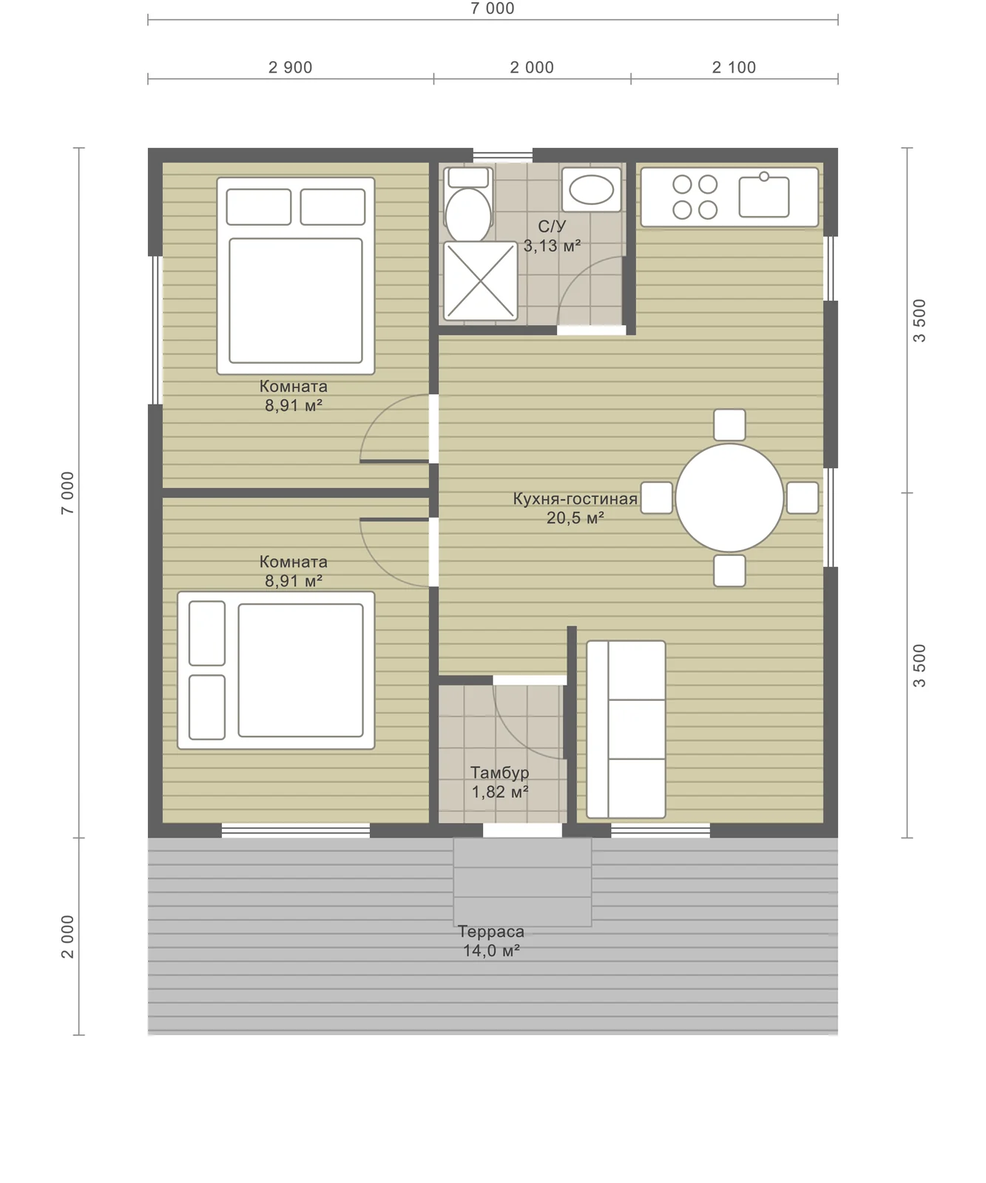
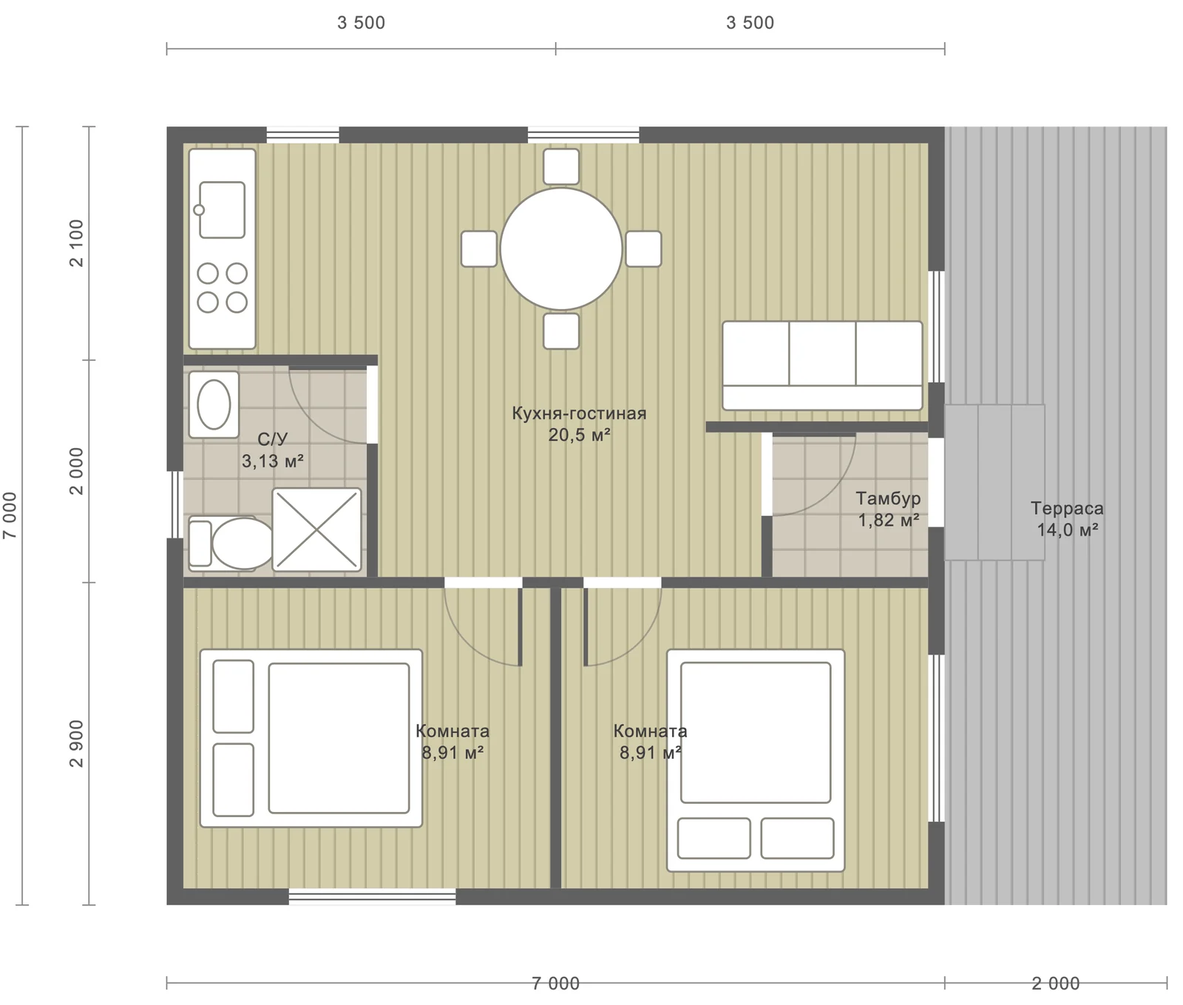
Стамбул 9 × 7: первый чертёж развёрнут — терраса справа, как у второй планировки

diff --git a/v2/proekt-9h7.html b/v2/proekt-9h7.html
@@ -160,7 +160,7 @@
     </section>
     <section class="sec" id="plan">
       <h2 class="sech">Две планировки на выбор</h2>
-      <div class="pln pln--desc" data-pln style="--ar:0.833"><div class="pln__c" data-n="1"><div class="pln__hd"><h3 class="pln__h">Планировка 1</h3><p class="pln__nm">2 комнаты · 43,3 м² в тепле</p></div><button type="button" class="pln__db" data-pld="1" aria-haspopup="dialog" aria-controls="pld"><svg viewBox="0 0 24 24" fill="none" stroke="currentColor" stroke-width="1.9" stroke-linecap="round" stroke-linejoin="round" aria-hidden="true"><path d="M7 3h7l5 5v13H7z"/><path d="M14 3v5h5M10 13h6M10 17h6"/></svg><span>Описание плана</span></button><div class="pln__w"><div class="pln__in"><button type="button" class="pln__m" aria-label="Открыть «Планировка 1 · 2 комнаты» на весь экран"><img class="is-on" src="../img/stambul-9h7-plan-1.webp" width="1333" height="1600" alt="Планировка 1 · 2 комнаты · Чертёж" decoding="async" loading="lazy"><span class="pln__zoom" aria-hidden="true"><svg viewBox="0 0 24 24" fill="none" stroke="currentColor" stroke-width="2" stroke-linecap="round" stroke-linejoin="round"><path d="M15 3h6v6M9 21H3v-6M21 3l-7 7M3 21l7-7"/></svg></span></button></div></div></div><div class="pln__c" data-n="2"><div class="pln__hd"><h3 class="pln__h">Планировка 2</h3><p class="pln__nm">1 спальня · 39,9 м² в тепле</p></div><button type="button" class="pln__db" data-pld="2" aria-haspopup="dialog" aria-controls="pld"><svg viewBox="0 0 24 24" fill="none" stroke="currentColor" stroke-width="1.9" stroke-linecap="round" stroke-linejoin="round" aria-hidden="true"><path d="M7 3h7l5 5v13H7z"/><path d="M14 3v5h5M10 13h6M10 17h6"/></svg><span>Описание плана</span></button><div class="pln__w"><div class="pln__in"><button type="button" class="pln__m" aria-label="Открыть «Планировка 2 · 1 спальня» на весь экран"><img class="is-on" src="../img/stambul-9h7-plan-2.webp" width="1600" height="1333" alt="Планировка 2 · 1 спальня · Чертёж" decoding="async" loading="lazy"><img src="../img/stambul-9h7-plan-2-3d.webp" width="2000" height="1342" alt="Планировка 2 · 1 спальня · 3D-вид" decoding="async" loading="lazy"><span class="pln__zoom" aria-hidden="true"><svg viewBox="0 0 24 24" fill="none" stroke="currentColor" stroke-width="2" stroke-linecap="round" stroke-linejoin="round"><path d="M15 3h6v6M9 21H3v-6M21 3l-7 7M3 21l7-7"/></svg></span></button><div class="pln__s"><button type="button" class="pln__t is-on" aria-pressed="true"><img src="../img/stambul-9h7-plan-2-th.webp" alt=""><span>Чертёж</span></button><button type="button" class="pln__t" aria-pressed="false"><img src="../img/stambul-9h7-plan-2-3d-th.webp" alt=""><span>3D-вид</span></button></div></div></div></div></div><dialog class="pld" id="pld" aria-label="Описание плана"><div class="pld__bar"><div class="pld__seg" role="group" aria-label="Планировка"><button type="button" data-n="1" aria-pressed="false">Планировка 1</button><button type="button" data-n="2" aria-pressed="false">Планировка 2</button></div><button type="button" class="pld__x" data-close><svg viewBox="0 0 24 24" fill="none" stroke="currentColor" stroke-width="1.9" stroke-linecap="round" stroke-linejoin="round" aria-hidden="true"><path d="M6 6l12 12M18 6 6 18"/></svg>Закрыть</button></div><div class="pld__b"><div class="pld__p" data-pane="1" hidden><figure class="pld__fig" data-n="1"><button type="button" class="pld__m" aria-label="Открыть «Планировка 1 · 2 комнаты» на весь экран"><img class="is-on" src="../img/stambul-9h7-plan-1.webp" width="1333" height="1600" alt="Планировка 1 · 2 комнаты · Чертёж" decoding="async" loading="lazy"></button></figure><div class="pld__txt"><p class="pld__k">Вариант 1 · 43,3 м² в тепле</p><h3 class="pld__t">Компактный дом 7 × 9 с террасой: две комнаты и светлая кухня-гостиная</h3><p class="pld__s">Всё, что нужно для жизни, — в квадрате 7 × 7 метров. Две отдельные комнаты, кухня-гостиная с тремя окнами, тамбур у входа и терраса 14 м² во всю ширину дома. Экономный в стройке и отоплении дом, который одинаково хорош для постоянной жизни, дачи или гостевого дома.</p><p class="pld__h">Кому подходит</p><ul class="pln__who pld__who"><li>Вас двое, или вы пара с ребёнком</li><li>Нужна дача или гостевой дом, где всё под рукой</li><li>Хотите сдавать дом: две комнаты и общая кухня — удобный формат для аренды</li><li>Важно, чтобы стройка и отопление стоили разумно</li><li>Любите завтракать и ужинать на террасе</li></ul><p class="pln__not"><b>Не ваш,</b> если нужен простор.</p><p class="pld__h">Почему сделано именно так</p><ul class="pld__l"><li><b>Квадрат 7 × 7 — самая экономная форма</b>Минимум наружных стен на каждый метр площади, простой фундамент и крыша. Дом быстрее строится и дешевле отапливается.</li><li><b>Коридоров почти нет — 4,2 %</b>Норма — до 12 %. Практически каждый метр, за который вы платите, — это комната.</li><li><b>Две отдельные комнаты одинакового размера</b>Каждому своя, никто не обижен. Легко сделать спальню, детскую, кабинет или гостевую — и поменять назначение позже.</li><li><b>Светлая кухня-гостиная 20,5 м²</b>Три окна на две стороны: кухня, обеденный стол на четверых и диван в одном пространстве.</li><li><b>Тамбур у входа</b>Холод и уличная грязь остаются у двери. Редкость для дома такого размера.</li><li><b>Терраса 14 м² во всю ширину дома</b>Вход прямо с террасы, летом она становится второй гостиной — стол, кресла, мангал рядом.</li><li><b>Санузел рядом с кухней</b>Общий стояк и короткие трубы: дешевле монтаж, меньше риск протечек.</li><li><b>Окна комнат на разные стороны дома</b>Комнаты не смотрят друг другу в окна — у каждой свой вид и своя приватность.</li><li><b>Простой дом для любой задачи</b>Постоянное жильё для пары, дача, гостевой дом на участке или дом под аренду — планировка подходит без переделок.</li></ul><p class="pld__h">Честно о минусах</p><ul class="pld__l pld__l--minus"><li><b>Санузел 3,1 м², один на дом</b>Встаёт душевая, унитаз и раковина; ванна и стиральная машина — нет. Лечится: стиральная машина под столешницу на кухне, у общего стояка.</li><li><b>Комнаты по 8,9 м²</b>Выше минимума 8. Двуспальная кровать и шкаф встают, рабочий стол — впритык.</li><li><b>Двери комнат выходят прямо в кухню-гостиную</b>Лечится: плотные двери с уплотнителем.</li><li><b>Окно второй комнаты выходит на террасу</b>Когда там гости — их слышно, и в окно видно. Лечится шторой или матовым низом стекла.</li><li><b>Нет места под котёл и кладовой</b>Лечится: электрокотёл или настенный котёл с закрытой камерой на кухне; хранение — шкаф в тамбуре и шкафы в комнатах.</li></ul></div></div><div class="pld__p" data-pane="2" hidden><figure class="pld__fig" data-n="2"><button type="button" class="pld__m" aria-label="Открыть «Планировка 2 · 1 спальня» на весь экран"><img class="is-on" src="../img/stambul-9h7-plan-2.webp" width="1600" height="1333" alt="Планировка 2 · 1 спальня · Чертёж" decoding="async" loading="lazy"><img src="../img/stambul-9h7-plan-2-3d.webp" width="2000" height="1342" alt="Планировка 2 · 1 спальня · 3D-вид" decoding="async" loading="lazy"></button><div class="pld__v" role="group" aria-label="Вид плана"><button type="button" aria-pressed="true">Чертёж</button><button type="button" aria-pressed="false">3D-вид</button></div></figure><div class="pld__txt"><p class="pld__k">Вариант 2 · 39,9 м² в тепле</p><h3 class="pld__t">Дом 9 × 7 с отдельной кухней и светлой гостиной у террасы</h3><p class="pld__s">Уютный одноэтажный дом, где у каждой зоны своё место: отдельная кухня, гостиная с большим окном на террасу, тихая спальня, просторная прихожая со шкафами и санузел почти 5 м². Терраса 17,5 м² тянется вдоль всего дома — вход прямо с неё.</p><p class="pld__h">Кому подходит</p><ul class="pln__who pld__who"><li>Вас двое, или вы живёте один</li><li>Любите готовить, но не хотите, чтобы запахи шли в гостиную</li><li>Нужен дом для жизни круглый год или тёплая дача</li><li>Родители на пенсии: всё на одном уровне, без лестниц и лишних метров</li><li>Много времени проводите на террасе</li></ul><p class="pln__not"><b>Не ваш,</b> если в семье есть дети.</p><p class="pld__h">Почему сделано именно так</p><ul class="pld__l"><li><b>Отдельная кухня 9,9 м²</b>Редкость для небольшого дома. Запахи и шум готовки не уходят в гостиную, а кухне хватает места и на гарнитур с холодильником, и на обеденный стол на четверых.</li><li><b>Светлая гостиная 10,2 м² у террасы</b>Большое окно почти от пола на террасу и ещё одно окно — это самая солнечная комната дома.</li><li><b>Кухня и гостиная связаны широким проёмом</b>Метровый проём без двери: из кухни видно гостиную, еду удобно подавать, но комнаты остаются раздельными.</li><li><b>Тихая спальня 9,9 м²</b>Вход из прихожей, а не из гостиной. Двуспальная кровать, шкаф и окно — спальня отделена от общей зоны.</li><li><b>Прихожая 5,2 м² со шкафами</b>Не тесный пятачок, а полноценная комната: два шкафа для одежды, обуви и сезонных вещей, место разуться и раздеться вдвоём.</li><li><b>Санузел 4,7 м²</b>Больше нормы 4,2 м²: душевая, унитаз, раковина, стиральная машина и отдельная ниша под бойлер. Есть окно.</li><li><b>Терраса 17,5 м² вдоль всего дома</b>Вход прямо с террасы. Летом здесь стол на шестерых, кресла и зона отдыха — ещё одна комната под открытым небом.</li><li><b>Личная зона отдельно от гостей</b>Спальня и санузел открываются в прихожую — личная зона дома не пересекается с гостями.</li><li><b>Компактный и экономный</b>Прямоугольник 6,5 × 7 м без выступов: простой фундамент и крыша, недорогое отопление, быстрая стройка.</li></ul><p class="pld__h">Честно о минусах</p><ul class="pld__l pld__l--minus"><li><b>Спальня одна</b>Для пары или одного человека в самый раз, для семьи с детьми — мало.</li><li><b>На кухню — через гостиную</b>У кухни нет входа из прихожей; продукты несут через гостиную.</li><li><b>Входная дверь сразу в прихожую, без тамбура</b>Лечится: утеплённая входная дверь с хорошим порогом.</li><li><b>Много стекла в гостиной</b>Зимой у большого окна прохладнее, летом солнечно. Лечится: энергосберегающий стеклопакет и шторы.</li><li><b>Нет отдельного помещения под котёл</b>Лечится: настенный котёл с закрытой камерой на кухне или электрокотёл в нише санузла.</li></ul></div></div></div></dialog><p class="plan__t">Пришлём планировку этого дома — с размерами комнат и террасы.</p><button type="button" class="btn btn--l" data-callback>Получить планировку</button></div>
+      <div class="pln pln--desc" data-pln style="--ar:1.177"><div class="pln__c" data-n="1"><div class="pln__hd"><h3 class="pln__h">Планировка 1</h3><p class="pln__nm">2 комнаты · 43,3 м² в тепле</p></div><button type="button" class="pln__db" data-pld="1" aria-haspopup="dialog" aria-controls="pld"><svg viewBox="0 0 24 24" fill="none" stroke="currentColor" stroke-width="1.9" stroke-linecap="round" stroke-linejoin="round" aria-hidden="true"><path d="M7 3h7l5 5v13H7z"/><path d="M14 3v5h5M10 13h6M10 17h6"/></svg><span>Описание плана</span></button><div class="pln__w"><div class="pln__in"><button type="button" class="pln__m" aria-label="Открыть «Планировка 1 · 2 комнаты» на весь экран"><img class="is-on" src="../img/stambul-9h7-plan-1.webp?v=2" width="1600" height="1359" alt="Планировка 1 · 2 комнаты · Чертёж" decoding="async" loading="lazy"><span class="pln__zoom" aria-hidden="true"><svg viewBox="0 0 24 24" fill="none" stroke="currentColor" stroke-width="2" stroke-linecap="round" stroke-linejoin="round"><path d="M15 3h6v6M9 21H3v-6M21 3l-7 7M3 21l7-7"/></svg></span></button></div></div></div><div class="pln__c" data-n="2"><div class="pln__hd"><h3 class="pln__h">Планировка 2</h3><p class="pln__nm">1 спальня · 39,9 м² в тепле</p></div><button type="button" class="pln__db" data-pld="2" aria-haspopup="dialog" aria-controls="pld"><svg viewBox="0 0 24 24" fill="none" stroke="currentColor" stroke-width="1.9" stroke-linecap="round" stroke-linejoin="round" aria-hidden="true"><path d="M7 3h7l5 5v13H7z"/><path d="M14 3v5h5M10 13h6M10 17h6"/></svg><span>Описание плана</span></button><div class="pln__w"><div class="pln__in"><button type="button" class="pln__m" aria-label="Открыть «Планировка 2 · 1 спальня» на весь экран"><img class="is-on" src="../img/stambul-9h7-plan-2.webp" width="1600" height="1333" alt="Планировка 2 · 1 спальня · Чертёж" decoding="async" loading="lazy"><img src="../img/stambul-9h7-plan-2-3d.webp" width="2000" height="1342" alt="Планировка 2 · 1 спальня · 3D-вид" decoding="async" loading="lazy"><span class="pln__zoom" aria-hidden="true"><svg viewBox="0 0 24 24" fill="none" stroke="currentColor" stroke-width="2" stroke-linecap="round" stroke-linejoin="round"><path d="M15 3h6v6M9 21H3v-6M21 3l-7 7M3 21l7-7"/></svg></span></button><div class="pln__s"><button type="button" class="pln__t is-on" aria-pressed="true"><img src="../img/stambul-9h7-plan-2-th.webp" alt=""><span>Чертёж</span></button><button type="button" class="pln__t" aria-pressed="false"><img src="../img/stambul-9h7-plan-2-3d-th.webp" alt=""><span>3D-вид</span></button></div></div></div></div></div><dialog class="pld" id="pld" aria-label="Описание плана"><div class="pld__bar"><div class="pld__seg" role="group" aria-label="Планировка"><button type="button" data-n="1" aria-pressed="false">Планировка 1</button><button type="button" data-n="2" aria-pressed="false">Планировка 2</button></div><button type="button" class="pld__x" data-close><svg viewBox="0 0 24 24" fill="none" stroke="currentColor" stroke-width="1.9" stroke-linecap="round" stroke-linejoin="round" aria-hidden="true"><path d="M6 6l12 12M18 6 6 18"/></svg>Закрыть</button></div><div class="pld__b"><div class="pld__p" data-pane="1" hidden><figure class="pld__fig" data-n="1"><button type="button" class="pld__m" aria-label="Открыть «Планировка 1 · 2 комнаты» на весь экран"><img class="is-on" src="../img/stambul-9h7-plan-1.webp?v=2" width="1600" height="1359" alt="Планировка 1 · 2 комнаты · Чертёж" decoding="async" loading="lazy"></button></figure><div class="pld__txt"><p class="pld__k">Вариант 1 · 43,3 м² в тепле</p><h3 class="pld__t">Компактный дом 7 × 9 с террасой: две комнаты и светлая кухня-гостиная</h3><p class="pld__s">Всё, что нужно для жизни, — в квадрате 7 × 7 метров. Две отдельные комнаты, кухня-гостиная с тремя окнами, тамбур у входа и терраса 14 м² во всю ширину дома. Экономный в стройке и отоплении дом, который одинаково хорош для постоянной жизни, дачи или гостевого дома.</p><p class="pld__h">Кому подходит</p><ul class="pln__who pld__who"><li>Вас двое, или вы пара с ребёнком</li><li>Нужна дача или гостевой дом, где всё под рукой</li><li>Хотите сдавать дом: две комнаты и общая кухня — удобный формат для аренды</li><li>Важно, чтобы стройка и отопление стоили разумно</li><li>Любите завтракать и ужинать на террасе</li></ul><p class="pln__not"><b>Не ваш,</b> если нужен простор.</p><p class="pld__h">Почему сделано именно так</p><ul class="pld__l"><li><b>Квадрат 7 × 7 — самая экономная форма</b>Минимум наружных стен на каждый метр площади, простой фундамент и крыша. Дом быстрее строится и дешевле отапливается.</li><li><b>Коридоров почти нет — 4,2 %</b>Норма — до 12 %. Практически каждый метр, за который вы платите, — это комната.</li><li><b>Две отдельные комнаты одинакового размера</b>Каждому своя, никто не обижен. Легко сделать спальню, детскую, кабинет или гостевую — и поменять назначение позже.</li><li><b>Светлая кухня-гостиная 20,5 м²</b>Три окна на две стороны: кухня, обеденный стол на четверых и диван в одном пространстве.</li><li><b>Тамбур у входа</b>Холод и уличная грязь остаются у двери. Редкость для дома такого размера.</li><li><b>Терраса 14 м² во всю ширину дома</b>Вход прямо с террасы, летом она становится второй гостиной — стол, кресла, мангал рядом.</li><li><b>Санузел рядом с кухней</b>Общий стояк и короткие трубы: дешевле монтаж, меньше риск протечек.</li><li><b>Окна комнат на разные стороны дома</b>Комнаты не смотрят друг другу в окна — у каждой свой вид и своя приватность.</li><li><b>Простой дом для любой задачи</b>Постоянное жильё для пары, дача, гостевой дом на участке или дом под аренду — планировка подходит без переделок.</li></ul><p class="pld__h">Честно о минусах</p><ul class="pld__l pld__l--minus"><li><b>Санузел 3,1 м², один на дом</b>Встаёт душевая, унитаз и раковина; ванна и стиральная машина — нет. Лечится: стиральная машина под столешницу на кухне, у общего стояка.</li><li><b>Комнаты по 8,9 м²</b>Выше минимума 8. Двуспальная кровать и шкаф встают, рабочий стол — впритык.</li><li><b>Двери комнат выходят прямо в кухню-гостиную</b>Лечится: плотные двери с уплотнителем.</li><li><b>Окно второй комнаты выходит на террасу</b>Когда там гости — их слышно, и в окно видно. Лечится шторой или матовым низом стекла.</li><li><b>Нет места под котёл и кладовой</b>Лечится: электрокотёл или настенный котёл с закрытой камерой на кухне; хранение — шкаф в тамбуре и шкафы в комнатах.</li></ul></div></div><div class="pld__p" data-pane="2" hidden><figure class="pld__fig" data-n="2"><button type="button" class="pld__m" aria-label="Открыть «Планировка 2 · 1 спальня» на весь экран"><img class="is-on" src="../img/stambul-9h7-plan-2.webp" width="1600" height="1333" alt="Планировка 2 · 1 спальня · Чертёж" decoding="async" loading="lazy"><img src="../img/stambul-9h7-plan-2-3d.webp" width="2000" height="1342" alt="Планировка 2 · 1 спальня · 3D-вид" decoding="async" loading="lazy"></button><div class="pld__v" role="group" aria-label="Вид плана"><button type="button" aria-pressed="true">Чертёж</button><button type="button" aria-pressed="false">3D-вид</button></div></figure><div class="pld__txt"><p class="pld__k">Вариант 2 · 39,9 м² в тепле</p><h3 class="pld__t">Дом 9 × 7 с отдельной кухней и светлой гостиной у террасы</h3><p class="pld__s">Уютный одноэтажный дом, где у каждой зоны своё место: отдельная кухня, гостиная с большим окном на террасу, тихая спальня, просторная прихожая со шкафами и санузел почти 5 м². Терраса 17,5 м² тянется вдоль всего дома — вход прямо с неё.</p><p class="pld__h">Кому подходит</p><ul class="pln__who pld__who"><li>Вас двое, или вы живёте один</li><li>Любите готовить, но не хотите, чтобы запахи шли в гостиную</li><li>Нужен дом для жизни круглый год или тёплая дача</li><li>Родители на пенсии: всё на одном уровне, без лестниц и лишних метров</li><li>Много времени проводите на террасе</li></ul><p class="pln__not"><b>Не ваш,</b> если в семье есть дети.</p><p class="pld__h">Почему сделано именно так</p><ul class="pld__l"><li><b>Отдельная кухня 9,9 м²</b>Редкость для небольшого дома. Запахи и шум готовки не уходят в гостиную, а кухне хватает места и на гарнитур с холодильником, и на обеденный стол на четверых.</li><li><b>Светлая гостиная 10,2 м² у террасы</b>Большое окно почти от пола на террасу и ещё одно окно — это самая солнечная комната дома.</li><li><b>Кухня и гостиная связаны широким проёмом</b>Метровый проём без двери: из кухни видно гостиную, еду удобно подавать, но комнаты остаются раздельными.</li><li><b>Тихая спальня 9,9 м²</b>Вход из прихожей, а не из гостиной. Двуспальная кровать, шкаф и окно — спальня отделена от общей зоны.</li><li><b>Прихожая 5,2 м² со шкафами</b>Не тесный пятачок, а полноценная комната: два шкафа для одежды, обуви и сезонных вещей, место разуться и раздеться вдвоём.</li><li><b>Санузел 4,7 м²</b>Больше нормы 4,2 м²: душевая, унитаз, раковина, стиральная машина и отдельная ниша под бойлер. Есть окно.</li><li><b>Терраса 17,5 м² вдоль всего дома</b>Вход прямо с террасы. Летом здесь стол на шестерых, кресла и зона отдыха — ещё одна комната под открытым небом.</li><li><b>Личная зона отдельно от гостей</b>Спальня и санузел открываются в прихожую — личная зона дома не пересекается с гостями.</li><li><b>Компактный и экономный</b>Прямоугольник 6,5 × 7 м без выступов: простой фундамент и крыша, недорогое отопление, быстрая стройка.</li></ul><p class="pld__h">Честно о минусах</p><ul class="pld__l pld__l--minus"><li><b>Спальня одна</b>Для пары или одного человека в самый раз, для семьи с детьми — мало.</li><li><b>На кухню — через гостиную</b>У кухни нет входа из прихожей; продукты несут через гостиную.</li><li><b>Входная дверь сразу в прихожую, без тамбура</b>Лечится: утеплённая входная дверь с хорошим порогом.</li><li><b>Много стекла в гостиной</b>Зимой у большого окна прохладнее, летом солнечно. Лечится: энергосберегающий стеклопакет и шторы.</li><li><b>Нет отдельного помещения под котёл</b>Лечится: настенный котёл с закрытой камерой на кухне или электрокотёл в нише санузла.</li></ul></div></div></div></dialog><p class="plan__t">Пришлём планировку этого дома — с размерами комнат и террасы.</p><button type="button" class="btn btn--l" data-callback>Получить планировку</button></div>
     </section>
 
     <section class="sec" id="inc">
